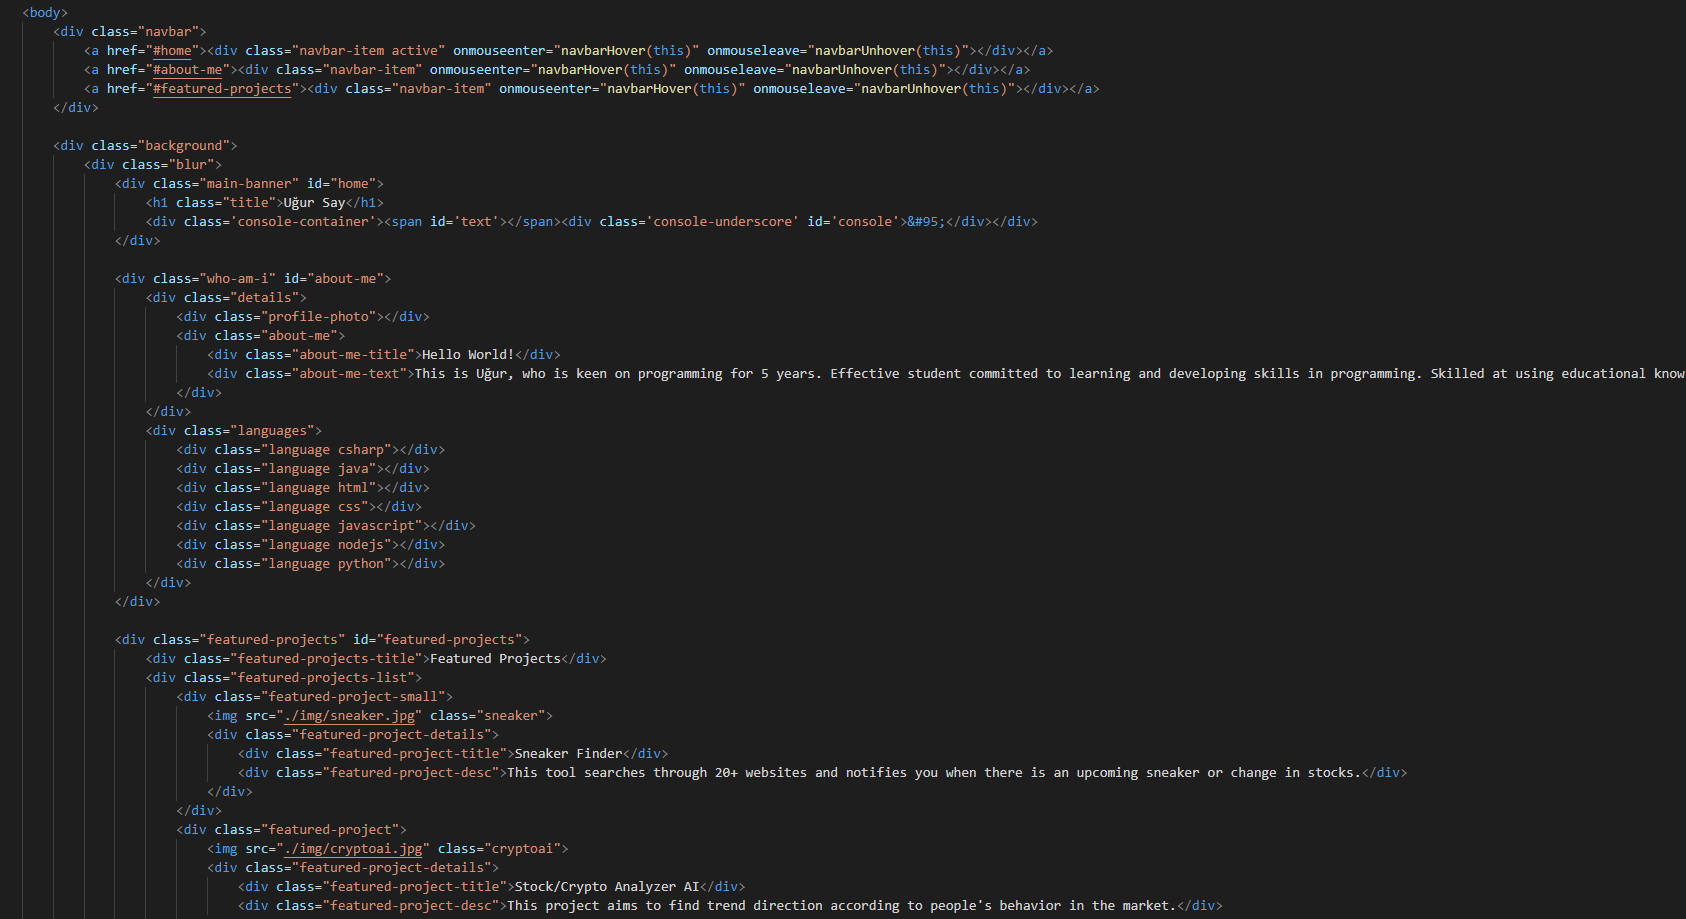
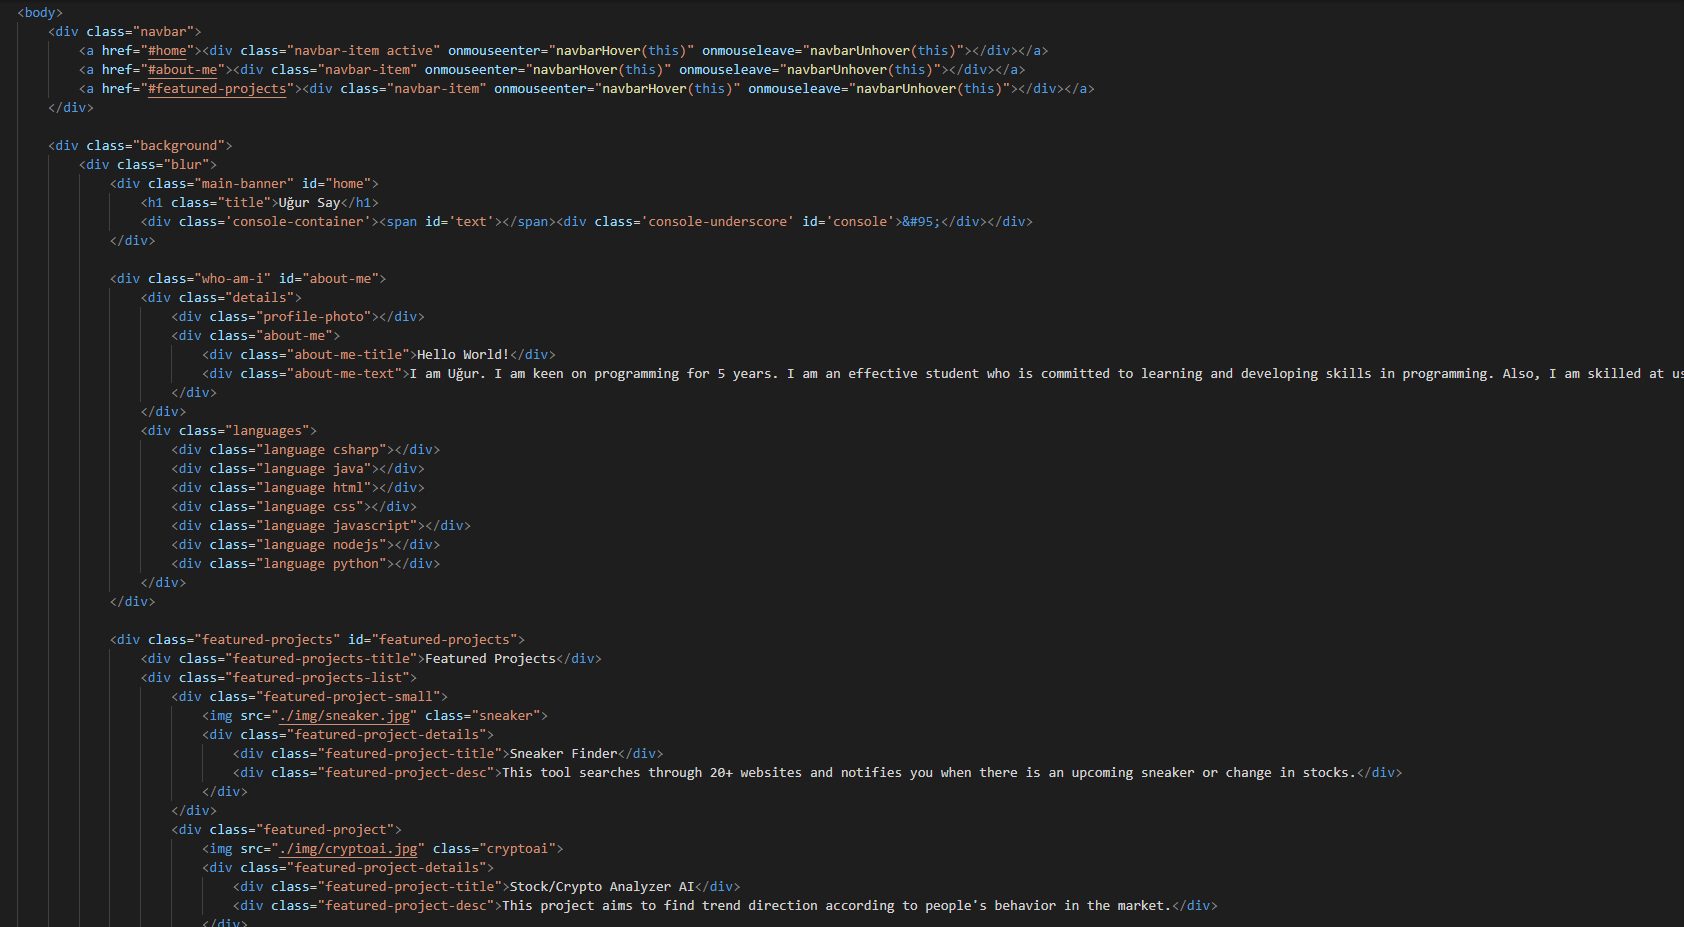
Fixed font error on some devices

diff --git a/index.html b/index.html
@@ -7,6 +7,9 @@
     <title>Hello World!</title>
     <link rel="icon" type="image/x-icon" href="./img/favicon.png">
 
+    <link rel="preconnect" href="https://fonts.googleapis.com">
+    <link rel="preconnect" href="https://fonts.gstatic.com" crossorigin>
+    <link href="https://fonts.googleapis.com/css2?family=Khula:wght@700&display=swap" rel="stylesheet">
     <!-- CSS -->
     <link rel="stylesheet" href="css/main.css">
 </head>
@@ -29,7 +32,7 @@
                     <div class="profile-photo"></div>
                     <div class="about-me">
                         <div class="about-me-title">Hello World!</div>
-                        <div class="about-me-text">This is Uğur. He is keen on programming for 5 years. He is an effective student who is committed to learning and developing skills in programming. Also, skilled at using educational knowledge to achieve cutting-edge results. He is ready to develop new skills and grow his knowledge by gaining practical experience.</div>
+                        <div class="about-me-text">I am Uğur. I am keen on programming for 5 years. I am an effective student who is committed to learning and developing skills in programming. Also, I am skilled at using educational knowledge to achieve cutting-edge results. I am ready to develop new skills and grow my knowledge by gaining practical experience.</div>
                     </div>
                 </div>
                 <div class="languages">

diff --git a/css/main.css b/css/main.css
@@ -6,7 +6,6 @@ CSS Reset
 body {
     padding: 0;
     margin: 0;
-    font-family: Arial, Helvetica, sans-serif;
 }
 
 a {
@@ -24,7 +23,6 @@ a:hover {
 HTML, Body
 
 */
-@import url(https://fonts.googleapis.com/css?family=Khula:700);
 html, body {
     height: 100%;
     font-family: 'Open Sans', sans-serif;
@@ -140,7 +138,7 @@ Main Banner
 }
 
 .console-container {
-    font-family: Khula;
+    font-family: 'Khula', sans-serif;
     font-size: 2rem;
     font-weight: bold;
     text-align: center;
